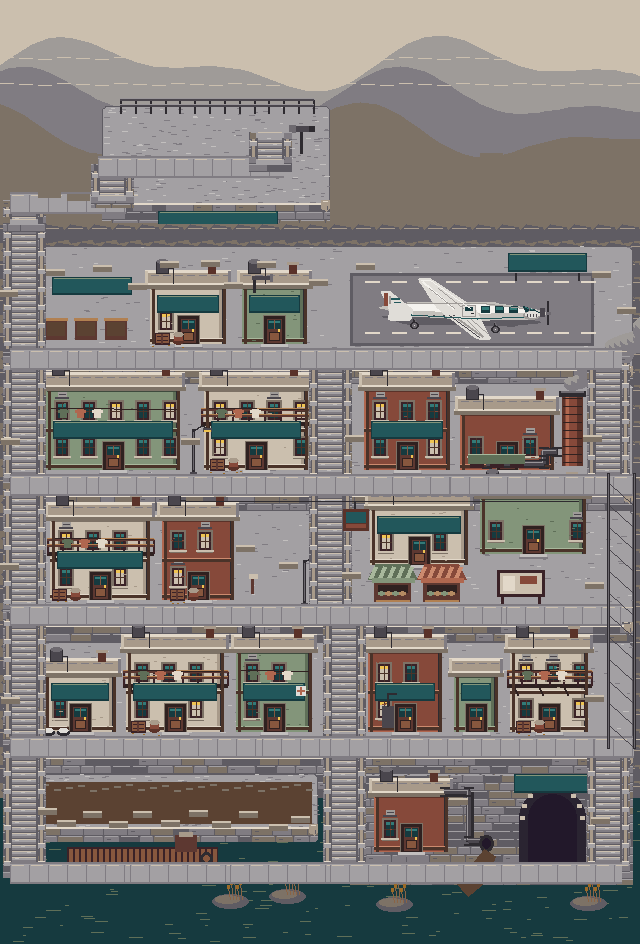
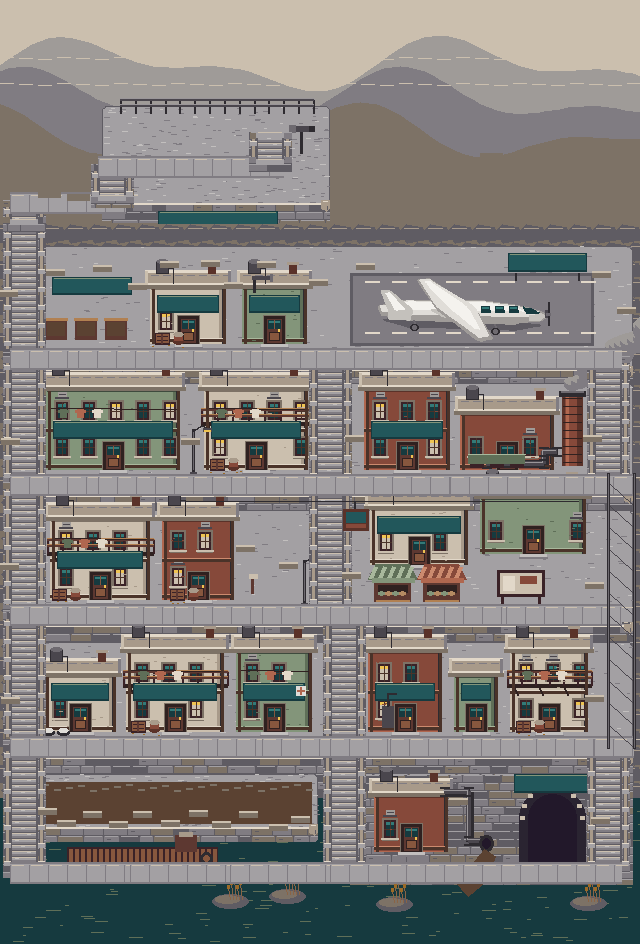
去除飞机纹路，改用机身明暗和机翼厚度塑造体积

Changed region(s): [[0.5938, 0.3072, 0.875, 0.3686]]

diff --git a/art/src/concept/autumn_city.py b/art/src/concept/autumn_city.py
@@ -325,29 +325,25 @@ def city_layers(stage=0,review=False):
  c.sign(52,53,80,'枫树苗圃',10)
  c.box(350,49,244,73,P.pave[0]);c.box(353,52,238,67,P.pave[1])
  for x in range(365,586,27):c.box(x,108,15,2,P.oat[3]);c.box(x,57,15,2,P.oat[3])
- # Larger private plane, 174px span, with separate tailplane, engine and landing gear.
- c.soft_poly([(380,92),(422,88),(519,91),(542,98),(512,102),(407,100)],P.pave[0])
- c.soft_poly([(377,83),(409,78),(493,78),(531,84),(550,89),(531,95),(484,96),(409,92)],P.porcelain[1])
- c.soft_poly([(406,80),(483,80),(522,84),(538,88),(485,89),(411,86)],P.porcelain[3])
- c.soft_poly([(436,83),(417,54),(430,54),(475,84),(491,115),(477,115),(448,93)],P.porcelain[2])
- c.line([(422,57),(453,84)],P.porcelain[3],2);c.line([(457,94),(482,112)],P.porcelain[0],2)
- c.soft_poly([(389,85),(380,67),(390,67),(413,86),(410,96),(388,96)],P.porcelain[2]);c.box(384,69,4,13,P.clay[1])
- for x in (481,495,509):c.box(x,82,9,7,P.teal[0]);c.box(x+1,83,7,3,P.teal[2])
- c.box(540,84,5,9,P.steel[1]);c.box(547,77,2,24,P.steel[0]);c.box(546,88,5,3,P.steel[2])
- for x,y in ((413,95),(494,99)):c.box(x,y,2,6,P.steel[0]);c.oval(x+1,y+6,3,3,P.steel[0]);c.box(x,y+5,2,2,P.steel[2])
- # Panel boundaries/metal ribs, cockpit glazing and cabin hatch give the plane volume.
- c.line([(411,90),(477,94),(526,92)],P.teal[1],2)
- c.line([(406,79),(482,79),(523,84)],P.porcelain[0])
- for x in range(423,475,10):c.box(x,91,2,1,P.steel[1])
- c.soft_poly([(522,82),(534,85),(540,89),(526,88)],P.teal[0]);c.line([(525,83),(532,85)],P.teal[2]);c.box(529,84,1,5,P.steel[2])
- c.box(462,81,14,12,P.porcelain[0]);c.box(463,82,12,10,P.porcelain[2]);c.box(465,83,8,4,P.teal[0]);c.box(471,89,3,1,P.steel[0])
- for a,b in [((429,64),(454,84)),((438,64),(463,84)),((467,96),(482,111)),((471,95),(487,109))]:c.line([a,b],P.porcelain[0])
- c.line([(421,56),(430,56),(470,84)],P.porcelain[3]);c.line([(449,91),(479,113)],P.steel[1])
- c.oval(531,91,8,4,P.porcelain[0]);c.oval(532,90,7,3,P.porcelain[2])
- for x in (527,530,533,536):c.box(x,90,1,3,P.steel[1])
- c.line([(414,95),(417,101),(413,103)],P.steel[2],2);c.line([(494,98),(497,104)],P.steel[2],2)
- for x,y in ((414,101),(495,105)):c.oval(x,y,4,3,P.steel[0]);c.oval(x,y,2,2,P.steel[2]);c.box(x,y,1,1,P.porcelain[2])
- c.box(389,72,2,8,P.porcelain[0]);c.box(391,74,9,2,P.teal[1]);c.box(394,78,7,1,P.teal[1])
+ # Unpatterned aircraft: broad upper light, rounded fuselage belly and wing thickness.
+ c.soft_poly([(380,95),(419,92),(512,96),(543,101),(516,106),(407,103)],P.pave[0],7)
+ c.soft_poly([(377,82),(402,76),(484,76),(519,81),(541,87),(550,91),(539,97),(512,100),(406,96),(381,91)],P.porcelain[0],8)
+ c.soft_poly([(379,81),(406,76),(485,77),(519,82),(540,88),(531,93),(408,90),(382,87)],P.porcelain[2],7)
+ c.soft_poly([(390,80),(410,77),(485,78),(516,83),(524,87),(413,85)],P.porcelain[3],7)
+ # Shadow cast by the far wing onto the curved cabin side.
+ c.soft_poly([(429,85),(455,84),(478,95),(469,98),(441,92)],P.porcelain[1],5)
+ c.soft_poly([(437,86),(416,55),(429,54),(476,85),(493,115),(478,117),(449,95)],P.porcelain[0],5)
+ c.soft_poly([(436,82),(418,55),(430,55),(475,83),(489,112),(478,113),(448,91)],P.porcelain[2],5)
+ c.soft_poly([(432,66),(425,57),(430,57),(466,82),(480,105),(474,104),(451,85)],P.porcelain[3],5)
+ c.soft_poly([(388,86),(380,66),(389,66),(412,85),(410,96),(388,95)],P.porcelain[1],4)
+ c.soft_poly([(385,69),(389,68),(405,85),(395,86)],P.porcelain[3],3)
+ for x in (481,495,509):
+  c.soft_poly([(x,82),(x+8,82),(x+9,88),(x,88)],P.teal[0],2);c.box(x+1,83,7,2,P.teal[2])
+ c.soft_poly([(522,82),(533,85),(540,89),(526,89)],P.teal[0],3)
+ c.soft_poly([(529,91),(540,89),(546,91),(540,96),(529,96)],P.porcelain[1],3)
+ c.box(545,86,3,8,P.steel[1]);c.box(548,78,2,24,P.steel[0]);c.box(546,89,5,3,P.steel[2])
+ for x,y in ((413,96),(494,100)):
+  c.line([(x,y),(x+2,y+5)],P.steel[2],2);c.oval(x+1,y+7,4,3,P.steel[0]);c.oval(x+1,y+7,2,2,P.steel[2])
  c.sign(508,29,79,'停机坪',11);c.box(515,49,2,8,P.steel[0]);c.box(578,49,2,8,P.steel[0])
  # Upper town: adjoining offices and a compact furnace yard.
  c.building(46,246,134,2,'civic','赤岩矿业',20);c.building(204,246,104,2,'old','市政厅',21)

diff --git a/docs/AGENT_LOG.md b/docs/AGENT_LOG.md
@@ -7,6 +7,11 @@ owner decisions made, what was not tested. Keep older entries; trim beyond ~40 e
 ---
 
 ## 2026-11-01 · Codex
+- Owner follow-up: stripped plane panel/rivet/decorative lines; broad shaded fuselage,
+  wing thickness/cast shadow and rounded silhouette supply volume. Prior bench removal
+  and stone corner finishing retained. Pixel-only art; test-page update.
+
+## 2026-11-01 · Codex
 - Owner detail pass: softened native-pixel terrace/retaining and plane corners, dressed
   stone corner coping; removed every outdoor long bench (including summit/quay).
 - Routes, scene dimensions, story and indoor furniture unchanged. Owner rules/handoffs

diff --git a/.claude/skills/pixel-art/SKILL.md b/.claude/skills/pixel-art/SKILL.md
@@ -1127,3 +1127,7 @@ Owner wants polygon corners to flow with rounded pixel transitions, stone corner
 coping details, especially terrace corners and airplane silhouettes. Round on the native
 integer pixel grid; no smooth vector/blur. Remove every outdoor long bench, including
 summit plaza and quay. Preserve path openings, native character scale and Source Han signs.
+
+Owner follow-up (2026-11-01): remove ALL aircraft surface patterning, panel lines,
+rivets and decorative stripes. Convey volume with broad palette light/shadow regions,
+rounded fuselage belly, wing thickness and cast shadow. Retain functional glazing/gear.

diff --git a/docs/AUTUMN_CITY.md b/docs/AUTUMN_CITY.md
@@ -103,3 +103,7 @@ now use integer quadratic corner transitions and dressed coping stones; plane fu
 wings, tail and cockpit contours use the same small-radius pixel transitions. No blur,
 antialiased scenery or change to the orthogonal route graph. All outdoor bench draw
 calls removed; indoor sofa and ordinary service stools remain separate furniture.
+
+Owner follow-up (2026-11-01): remove ALL aircraft surface patterning, panel lines,
+rivets and decorative stripes. Convey volume with broad palette light/shadow regions,
+rounded fuselage belly, wing thickness and cast shadow. Retain functional glazing/gear.
